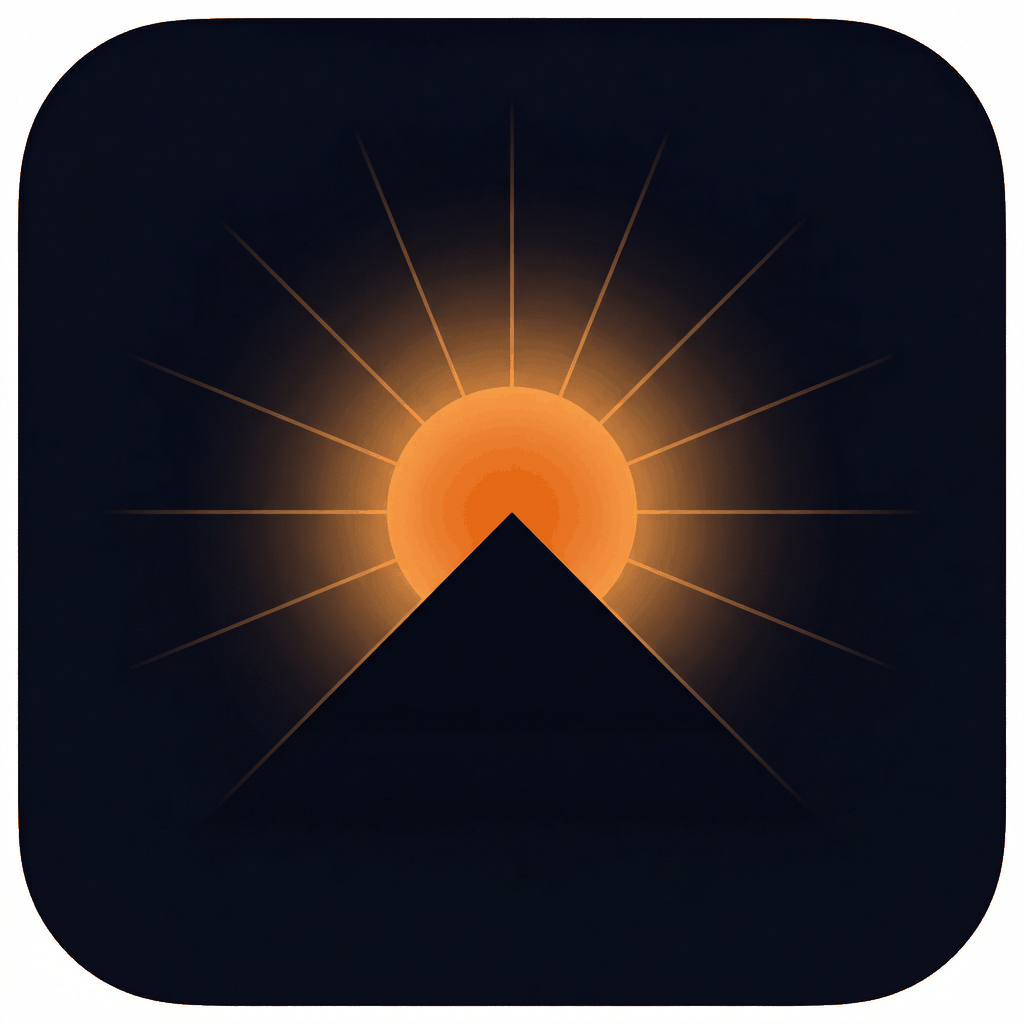
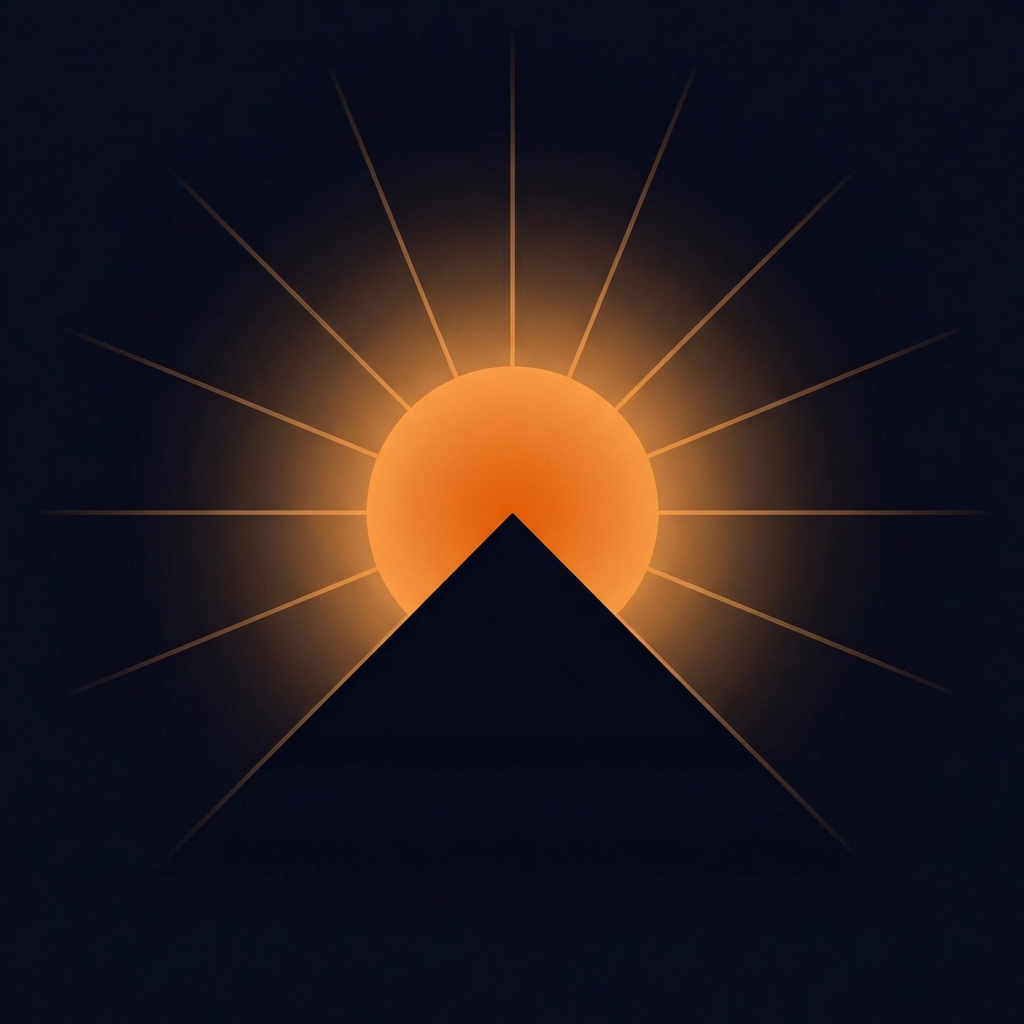
Checkpoint: Final pre-build checkpoint with all 5 tasks complete:
**Task 1: Fix eas.json (COMPLETE)**
- Removed invalid build profiles (en, fr, pt with invalid buildType values)
- Kept clean profiles: development, preview, production
- All resourceClass values valid (m1, medium, large)

**Task 2: Add EAS projectId to app.config.ts (COMPLETE)**
- Added extra.eas.projectId: "qmpJJlXFTEGxb1QQrpEmksKbFSztK01qqExKUsYh"
- Placed under experiments section in config

**Task 3: Add free trial text to paywall (COMPLETE)**
- Annual plan: displays "7-day free trial" in green (#22C55E)
- Weekly/Monthly plan: displays "3-day free trial" in green
- Added planTrial style (fontSize 12, fontWeight 600)
- Trial text appears below price/period info on each plan card

**Task 4: Update product IDs (COMPLETE)**
- paywall-modal.tsx PLANS updated:
  * weekly: com.risegrind.weekly
  * annual: com.risegrind.annual
  * lifetime: risegrind.lifetime
- Added flexible product ID matching (handles both old and new formats)
- Updated entitlement checks to support both 'pro' and 'premium'

**Task 5: Deploy new logo (COMPLETE)**
- Copied risegrind-icon-1024.png to:
  * assets/images/icon.png
  * assets/images/splash-icon.png
  * assets/images/favicon.png
  * assets/images/android-icon-foreground.png
- Logo is orange sun with black mountain silhouette

**Code Quality:**
- TypeScript: 0 errors
- Dev server compiling successfully
- All imports and dependencies valid

**Ready for iOS build:** eas build --platform ios --profile production

diff --git a/app/onboarding/paywall-modal.tsx b/app/onboarding/paywall-modal.tsx
@@ -40,7 +40,7 @@ const PLANS: Record<PlanType, Plan> = {
     name: 'Weekly',
     price: '$9.99',
     period: '/week',
-    productId: 'risegrind.weekly',
+    productId: 'com.risegrind.weekly',
   },
   annual: {
     id: 'annual',
@@ -49,7 +49,7 @@ const PLANS: Record<PlanType, Plan> = {
     period: '/year',
     badge: 'BEST VALUE',
     description: 'Just $1.15/week',
-    productId: 'risegrind.annual',
+    productId: 'com.risegrind.annual',
   },
   lifetime: {
     id: 'lifetime',
@@ -96,9 +96,13 @@ export function PaywallModal({ visible, onClose, source }: PaywallModalProps) {
     setLoading(true);
     try {
       const plan = PLANS[selectedPlan];
-      const selectedPackage = packages.find((pkg) =>
-        pkg.product.identifier === plan.productId
-      );
+      const selectedPackage = packages.find((pkg) => {
+        // Match both old and new product ID formats
+        const pkgId = pkg.product.identifier;
+        return pkgId === plan.productId || 
+               pkgId === plan.productId.replace('com.', '') ||
+               pkgId === 'com.' + plan.productId;
+      });
 
       if (!selectedPackage) {
         Alert.alert('Payment coming soon', 'Payment coming soon. Stay tuned 🔒');
@@ -108,7 +112,7 @@ export function PaywallModal({ visible, onClose, source }: PaywallModalProps) {
 
       const purchaseResult = await Purchases.purchasePackage(selectedPackage);
 
-      if (purchaseResult?.customerInfo?.entitlements?.active?.['pro']) {
+      if (purchaseResult?.customerInfo?.entitlements?.active?.['pro'] || purchaseResult?.customerInfo?.entitlements?.active?.['premium']) {
         // Purchase successful
         dispatch({ type: 'SET_PREMIUM', payload: true });
         onClose();

diff --git a/app/onboarding/paywall.tsx b/app/onboarding/paywall.tsx
@@ -192,6 +192,9 @@ export default function PaywallScreen() {
             <Text style={[styles.planNote, { color: colors.muted }]}>
               {t("paywall.perYear", { defaultValue: "/year" })} · ~$3.33/mo
             </Text>
+            <Text style={[styles.planTrial, { color: "#22C55E", marginTop: 8, fontSize: 12, fontWeight: "600" }]}>
+              {t("paywall.sevenDayTrial", { defaultValue: "7-day free trial" })}
+            </Text>
           </Pressable>
 
           {/* Monthly */}
@@ -220,6 +223,9 @@ export default function PaywallScreen() {
             <Text style={[styles.planPrice, { color: "#E8A87C" }]}>{monthlyPrice}</Text>
             <Text style={[styles.planNote, { color: colors.muted }]}>
               {t("paywall.perMonth", { defaultValue: "/month" })}
+            </Text>
+            <Text style={[styles.planTrial, { color: "#22C55E", marginTop: 8, fontSize: 12, fontWeight: "600" }]}>
+              {t("paywall.threeDayTrial", { defaultValue: "3-day free trial" })}
             </Text>
           </Pressable>
         </Animated.View>
@@ -386,6 +392,10 @@ const styles = StyleSheet.create({
   },
   planNote: {
     fontSize: 12,
+  },
+  planTrial: {
+    fontSize: 12,
+    fontWeight: "600",
   },
   ctaSection: {
     gap: 12,

diff --git a/app.config.ts b/app.config.ts
@@ -135,6 +135,11 @@ const config: ExpoConfig = {
     typedRoutes: true,
     reactCompiler: true,
   },
+  extra: {
+    eas: {
+      projectId: "qmpJJlXFTEGxb1QQrpEmksKbFSztK01qqExKUsYh",
+    },
+  },
 };
 
 export default config;
